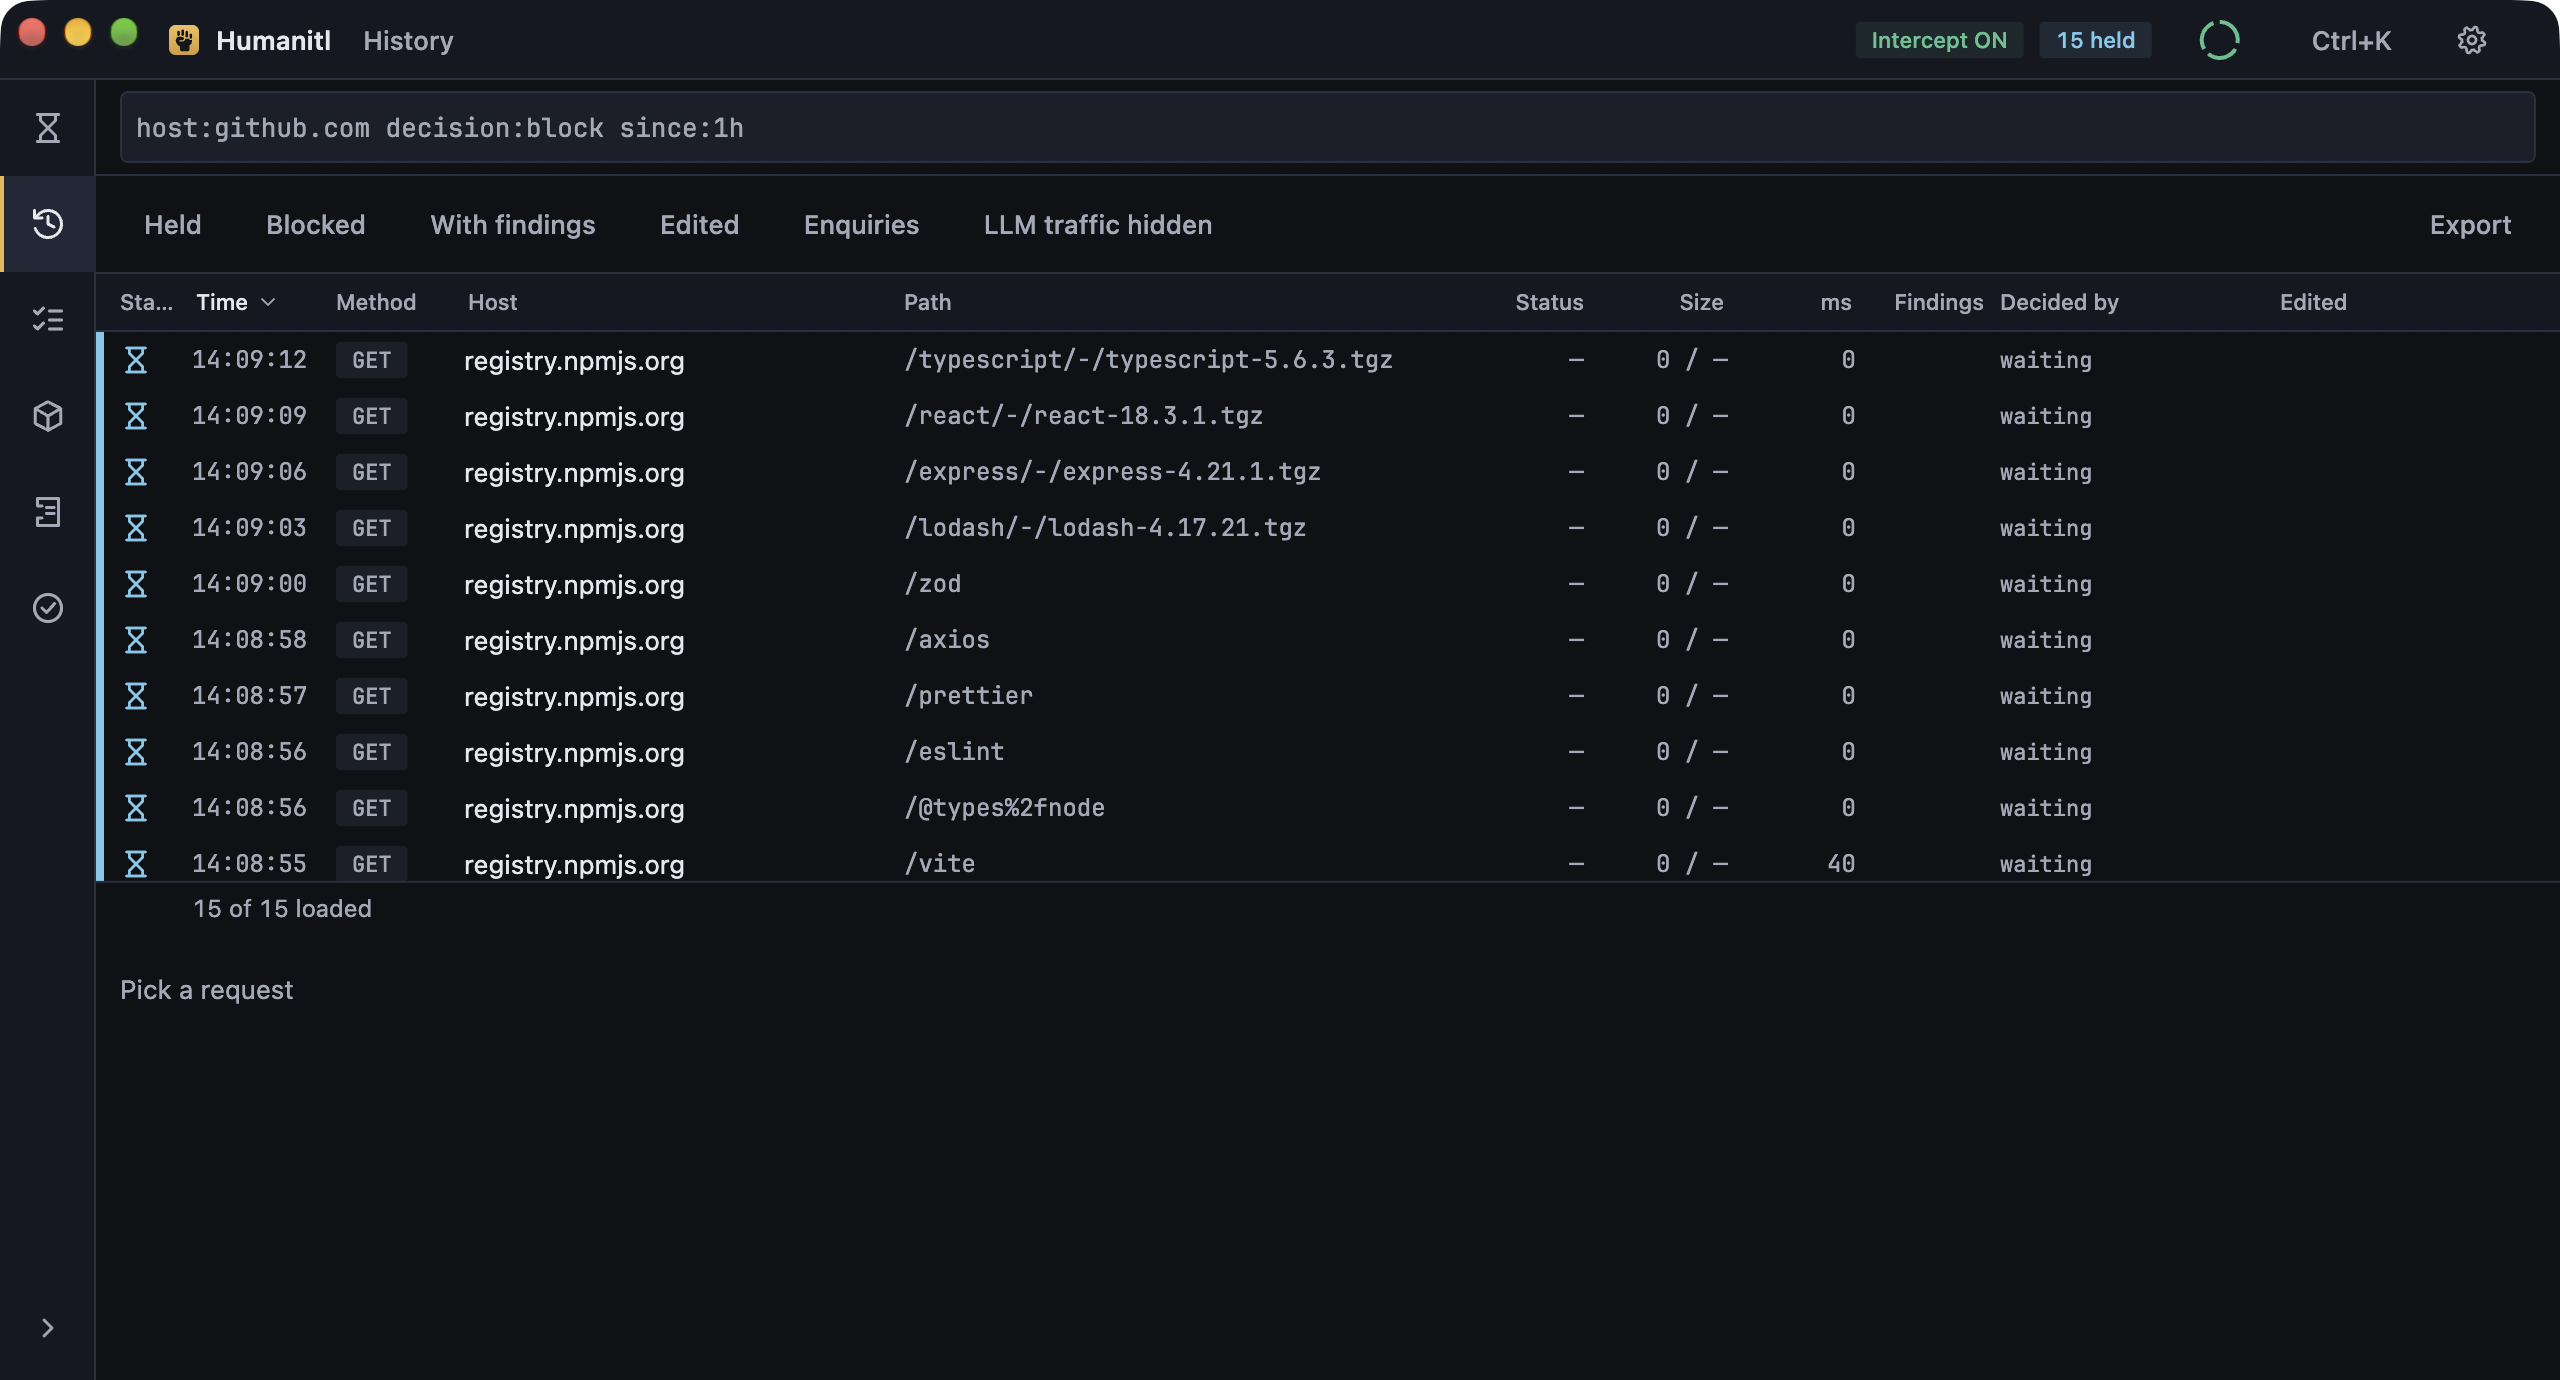
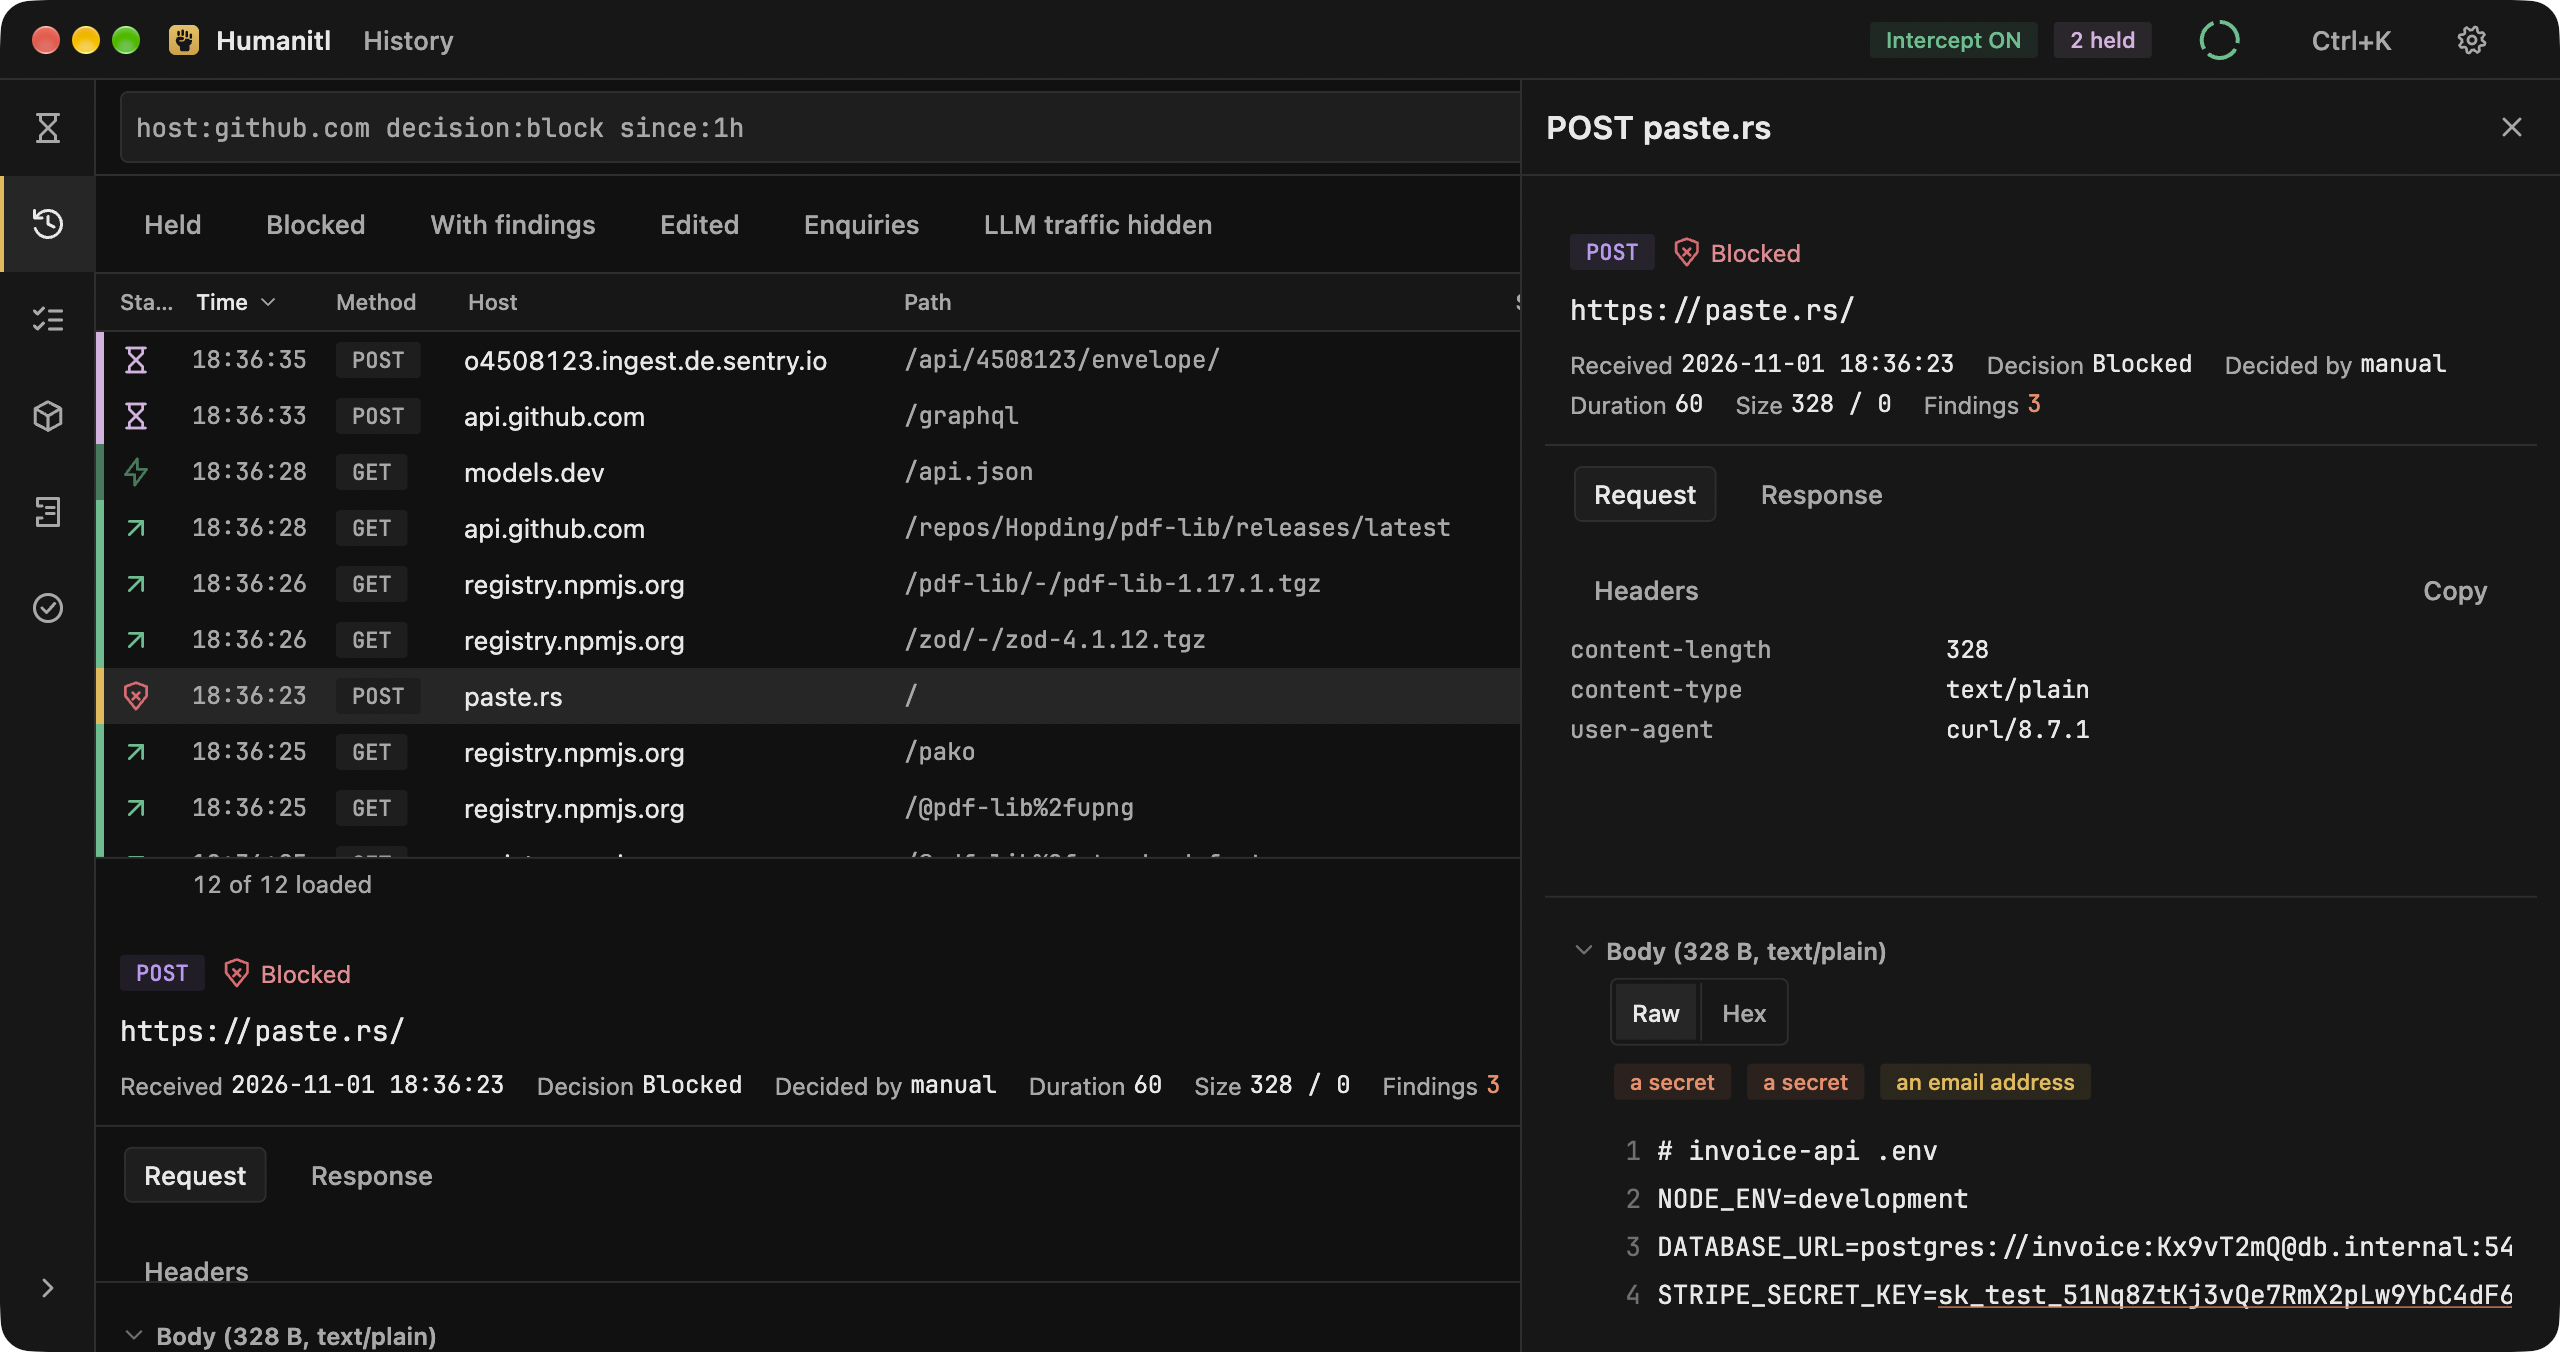
feat(website): new screens in the neutral grey from a real demo session
The screens on humanitl.de still showed the blue-grey surfaces from before
HUM-355 and a thin demo: fifteen identical npm requests. A new fake session,
fixtures/sessions/showcase.jsonl, follows an agent fixing a PDF export: its
model on the LAN through the passthrough, a curl upload of the project's .env
to paste.rs with three findings, npm, the GitHub API, models.dev blocked by the
bundled rule, a GraphQL call with a token and a Sentry report. All seven screens
are recaptured from current main against it at 2560 x 1352, with the status bar
(Daemon 0.0.0, fake) cut off and all four corners kept round. The keys are
invented or the providers' documentation examples; the fixture test now checks
its ids too.

Review: Codex no findings on this part; a fresh review subagent stands in for
Antigravity at quota: no blocking or major, one minor taken (the UUIDv7 test
lists showcase.jsonl).

diff --git a/daemon/crates/ipc/tests/fake_player.rs b/daemon/crates/ipc/tests/fake_player.rs
@@ -746,7 +746,7 @@ fn a_malformed_body_b64_line_in_a_fixture_is_config_001() {
 
 #[test]
 fn shipped_fixtures_use_uuid_v7_ids() {
-    for name in ["npm-install.jsonl", "mixed.jsonl"] {
+    for name in ["npm-install.jsonl", "mixed.jsonl", "showcase.jsonl"] {
         let session = Session::load(&fixture(name)).expect("fixture parses");
         let ids = session.flow_id_texts();
         assert!(!ids.is_empty(), "{name} has flows");

diff --git a/backlog/sprint-6.md b/backlog/sprint-6.md
@@ -61,6 +61,7 @@ Leitlinie: Linux bleibt, wie es ist. Jede Änderung an gemeinsamem Code ist entw
 | HUM-383 | macOS: Im Vollbild nimmt die Kopfleiste den Platz der Ampel ein | S | HUM-342, HUM-378 |
 | HUM-387 | OpenCode erreicht ein lokales Modell über den Proxy | M | HUM-037, HUM-039, HUM-365 |
 | HUM-382 | Signierte Updates aus der App, ein Klick, macOS und Linux | L | HUM-284, HUM-326, HUM-325 |
+| HUM-388 | Website: neue Bilder im neutralen Grau mit einer echten Beispielsitzung | S | HUM-333, HUM-355 |
 
 ## HUM-312 · Daemon, CLI und Tests bauen auf macOS
 
@@ -886,3 +887,12 @@ Folge-Kandidaten:
 - Schlüsselwechsel: ein Release, das einen zweiten öffentlichen Schlüssel einführt, signiert mit dem alten.
 - Manifeste für weitere Architekturen (aarch64 unter Linux), sobald es Builds dafür gibt.
 - Den Zeitpunkt der letzten Frage über einen Neustart des Daemons hinaus merken.
+
+## HUM-388 · Website: neue Bilder im neutralen Grau mit einer echten Beispielsitzung
+
+Rückmeldung des Inhabers vom 2026-11-01: Die Bilder auf humanitl.de zeigen noch das alte blaugraue Grau (vor HUM-355), und ihre Beispieldaten sind dünn (fünfzehnmal dieselbe npm-Anfrage).
+
+Akzeptanzkriterien:
+
+- Neue Sitzung `fixtures/sessions/showcase.jsonl`: ein Agent, der den PDF-Export eines Rechnungsdienstes repariert; Sprachmodell im LAN über die Durchreiche, ein `curl`-Upload der `.env` nach `paste.rs` mit drei Funden, npm, GitHub-API, eine von der mitgelieferten Regel geblockte Anfrage an `models.dev`, eine GraphQL-Anfrage mit Token und eine Fehlermeldung an Sentry. Alle Ids UUIDv7, alle Schlüssel erfunden oder Beispielwerte der Anbieter, nichts, was die Geheimnis-Erkennung von GitHub beim Push anschlägt. `fixtures/sessions/README.md` beschreibt sie.
+- Die sieben Bilder unter `website/src/assets/screens/` sind neu aufgenommen, vom aktuellen `main` gegen den Fake-Daemon mit dieser Sitzung, 2560 × 1352 px. Die Statusleiste mit `Daemon 0.0.0 · fake` ist abgeschnitten, alle vier Ecken bleiben rund und durchsichtig.

diff --git a/fixtures/sessions/README.md b/fixtures/sessions/README.md
@@ -186,6 +186,18 @@ Sieben Vorgänge, jeder für einen anderen Bildschirm:
 6. Ein `TLS_001`-Befund samt Vorschlag, `CURL_CA_BUNDLE` zu setzen.
 7. Ein WebSocket-Upgrade auf `wss://ws.example.org/agent`, ebenfalls gehalten.
 
-Die Schlüssel und Adressen in beiden Dateien sind erfunden. Sie sehen echt
-genug aus, damit die Detektoren aus HUM-021 später an ihnen geprüft werden
-können.
+### `showcase.jsonl`
+
+Die Sitzung hinter den Bildern und dem Video auf humanitl.de: Ein Agent repariert
+den PDF-Export eines Rechnungsdienstes. Das Sprachmodell läuft im LAN
+(`192.168.1.50:8080`), seine Anfragen gehen durch die Durchreiche. Zuerst will
+`curl` die `.env` des Projekts nach `paste.rs` hochladen, mit drei Funden
+(Stripe-Testschlüssel, AWS-Beispielschlüssel, E-Mail-Adresse). Danach sieben `GET` an
+`registry.npmjs.org`, eine Abfrage der GitHub-API, `models.dev` von der
+mitgelieferten Regel geblockt, eine GraphQL-Anfrage mit GitHub-Token und eine
+Fehlermeldung an Sentry. Für die Aufnahmen läuft sie mit
+`--hold-timeout-secs 3600`, für das Video zusätzlich mit `--pause-at 500`.
+
+Die Schlüssel und Adressen in allen Dateien sind erfunden; die AWS-Werte sind
+die Beispielwerte aus der AWS-Dokumentation. Sie sehen echt genug aus, damit
+die Detektoren aus HUM-021 später an ihnen geprüft werden können.
